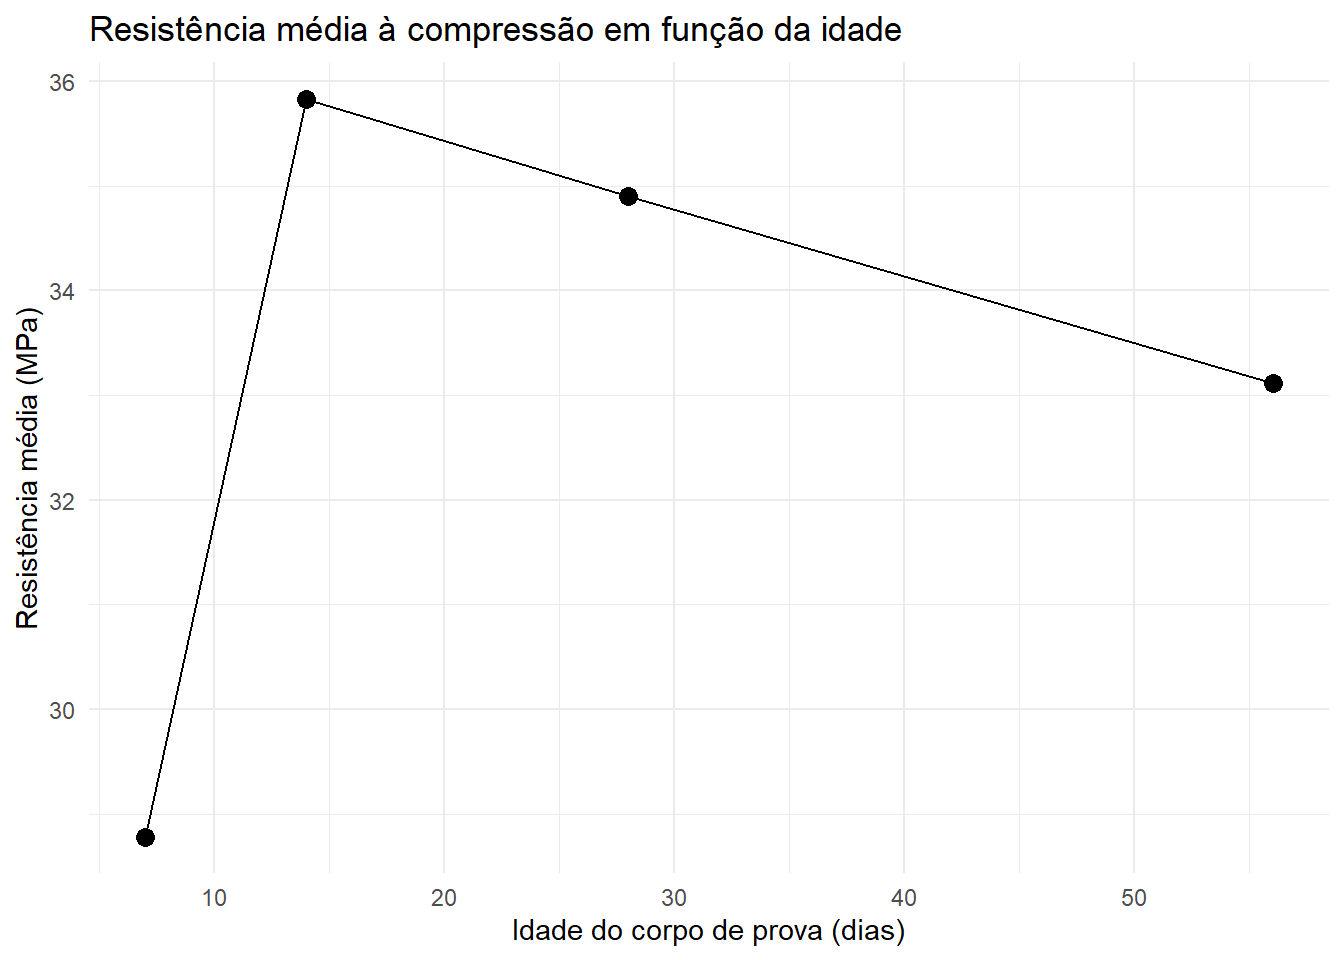
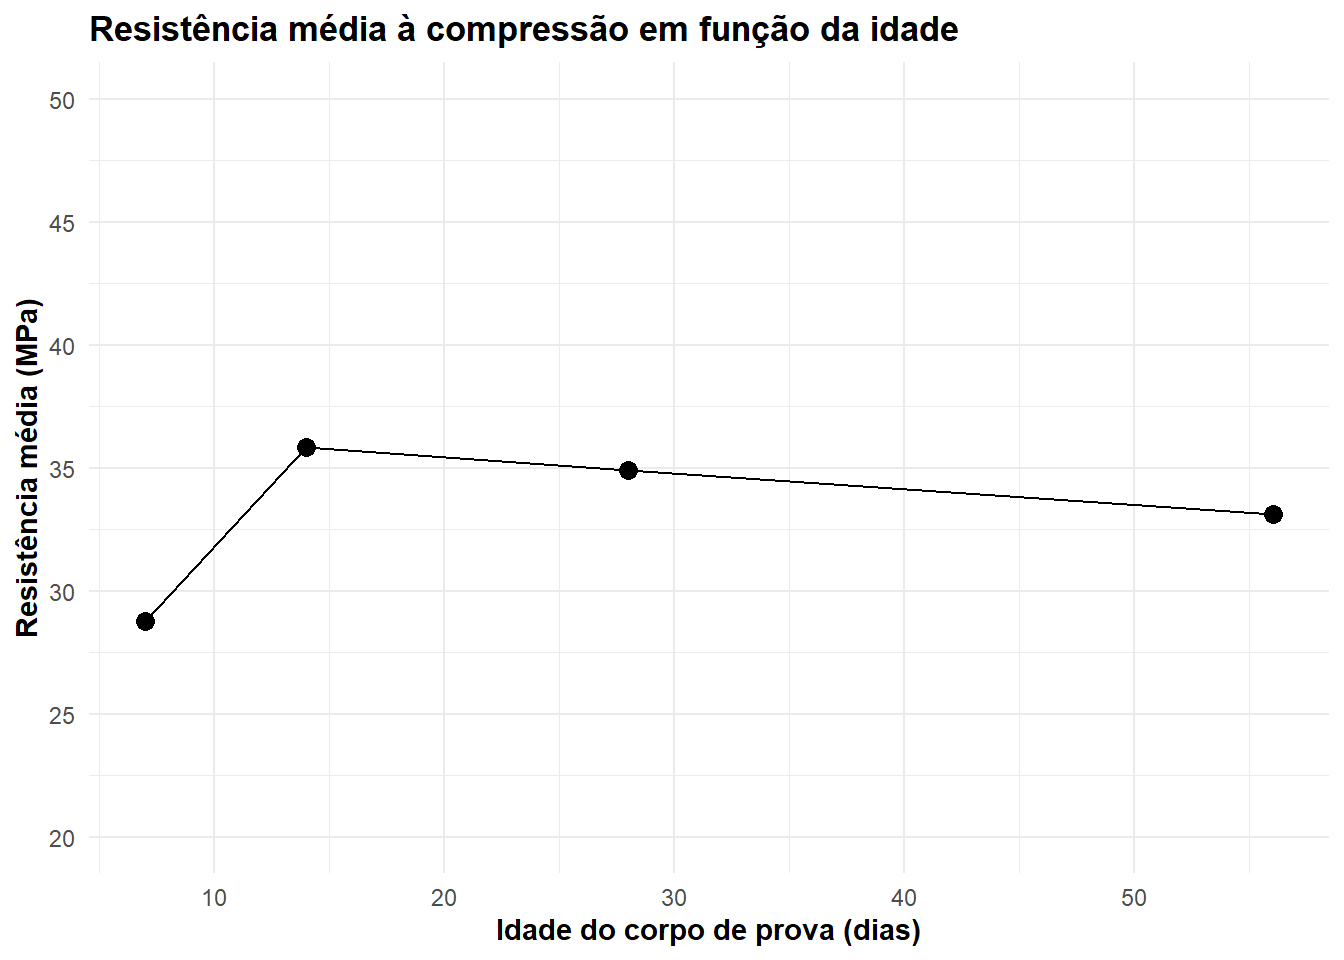
Initial commit

diff --git a/relatorio/rel03/index.html b/relatorio/rel03/index.html
@@ -166,8 +166,8 @@ div.csl-indent {
   <li><a href="#questão-33" id="toc-questão-33" class="nav-link" data-scroll-target="#questão-33"><span class="header-section-number">5.33</span> Questão 33</a></li>
   <li><a href="#questão-34" id="toc-questão-34" class="nav-link" data-scroll-target="#questão-34"><span class="header-section-number">5.34</span> Questão 34</a></li>
   <li><a href="#questão-35" id="toc-questão-35" class="nav-link" data-scroll-target="#questão-35"><span class="header-section-number">5.35</span> Questão 35</a></li>
-  <li><a href="#questão-36-comparação-entre-obras" id="toc-questão-36-comparação-entre-obras" class="nav-link" data-scroll-target="#questão-36-comparação-entre-obras"><span class="header-section-number">5.36</span> Questão 36 — Comparação entre obras</a></li>
-  <li><a href="#questão-37-idade-e-resistência" id="toc-questão-37-idade-e-resistência" class="nav-link" data-scroll-target="#questão-37-idade-e-resistência"><span class="header-section-number">5.37</span> Questão 37 — Idade e resistência</a></li>
+  <li><a href="#questão-36" id="toc-questão-36" class="nav-link" data-scroll-target="#questão-36"><span class="header-section-number">5.36</span> Questão 36</a></li>
+  <li><a href="#questão-37" id="toc-questão-37" class="nav-link" data-scroll-target="#questão-37"><span class="header-section-number">5.37</span> Questão 37</a></li>
   </ul></li>
   <li><a href="#considerações-finais" id="toc-considerações-finais" class="nav-link" data-scroll-target="#considerações-finais"><span class="header-section-number">6</span> 🧠 Considerações finais</a></li>
   <li><a href="#referências" id="toc-referências" class="nav-link" data-scroll-target="#referências"><span class="header-section-number">7</span> 📖 Referências</a></li>
@@ -206,7 +206,7 @@ div.csl-indent {
     <div>
     <div class="quarto-title-meta-heading">Data de Publicação</div>
     <div class="quarto-title-meta-contents">
-      <p class="date">07/09/2026, 16:17</p>
+      <p class="date">07/09/2026, 16:29</p>
     </div>
   </div>
   
@@ -5219,8 +5219,8 @@ $ absorção_agregado_pct &lt;dbl&gt; 2.30, 1.85, 1.89, 1.97, 2.31, 0.80, 1.18, 
 <p>Observa-se uma <strong>tendência negativa</strong>, indicando que maiores valores da relação água/cimento tendem a estar associados a menores valores de resistência à compressão. Esse comportamento é coerente com o esperado para o concreto, embora a dispersão dos pontos mostre que outros fatores também influenciam a resistência.</p>
 <p>A presença de pontos que se afastam do padrão geral merece investigação, pois pode indicar <strong>valores discrepantes, variações nas características dos materiais ou diferenças nas condições de produção e ensaio</strong>.</p>
 </section>
-<section id="questão-36-comparação-entre-obras" class="level2" data-number="5.36">
-<h2 data-number="5.36" class="anchored" data-anchor-id="questão-36-comparação-entre-obras"><span class="header-section-number">5.36</span> Questão 36 — Comparação entre obras</h2>
+<section id="questão-36" class="level2" data-number="5.36">
+<h2 data-number="5.36" class="anchored" data-anchor-id="questão-36"><span class="header-section-number">5.36</span> Questão 36</h2>
 <p>Para verificar, em termos descritivos, a afirmação de que os concretos utilizados no Bloco C apresentam desempenho superior aos demais blocos, foram comparadas as medidas de resistência à compressão entre as obras.</p>
 <p>Inicialmente, foram calculadas a média, a mediana e o desvio-padrão da resistência para cada obra:</p>
 <div class="cell">
@@ -5285,9 +5285,9 @@ $ absorção_agregado_pct &lt;dbl&gt; 2.30, 1.85, 1.89, 1.97, 2.31, 0.80, 1.18, 
 <p>A comparação dos resultados mostra que o <strong>Bloco C não apresenta o maior desempenho em resistência à compressão</strong>. Sua mediana é inferior às observadas nos Blocos B e D, enquanto sua distribuição apresenta também considerável variabilidade.</p>
 <p>Portanto, <strong>os dados analisados não dão suporte, em termos descritivos, à afirmação de que os concretos do Bloco C apresentam desempenho superior aos demais blocos</strong>. Essa conclusão se restringe aos resultados observados na base e não envolve teste de hipótese.</p>
 </section>
-<section id="questão-37-idade-e-resistência" class="level2" data-number="5.37">
-<h2 data-number="5.37" class="anchored" data-anchor-id="questão-37-idade-e-resistência"><span class="header-section-number">5.37</span> Questão 37 — Idade e resistência</h2>
-<p>Para analisar a relação entre a idade dos corpos de prova e a resistência à compressão, foram calculadas as médias de resistência para cada idade. O valor de <code>280 dias</code> foi desconsiderado nesta análise por apresentar comportamento discrepante em relação às demais idades.</p>
+<section id="questão-37" class="level2" data-number="5.37">
+<h2 data-number="5.37" class="anchored" data-anchor-id="questão-37"><span class="header-section-number">5.37</span> Questão 37</h2>
+<p>Para analisar a relação entre a idade dos corpos de prova e a resistência à compressão, foram calculadas as médias de resistência para cada idade. O valor de <code>280 dias</code> foi desconsiderado por apresentar comportamento discrepante em relação às demais observações.</p>
 <div class="cell">
 <details class="code-fold">
 <summary>Código</summary>
@@ -5312,7 +5312,7 @@ $ absorção_agregado_pct &lt;dbl&gt; 2.30, 1.85, 1.89, 1.97, 2.31, 0.80, 1.18, 
 4         56              33.1</code></pre>
 </div>
 </div>
-<p>A relação entre idade e resistência média foi representada graficamente:</p>
+<p>A relação entre idade e resistência média foi representada por meio de um gráfico de linhas:</p>
 <div class="cell">
 <details class="code-fold">
 <summary>Código</summary>
@@ -5325,12 +5325,20 @@ $ absorção_agregado_pct &lt;dbl&gt; 2.30, 1.85, 1.89, 1.97, 2.31, 0.80, 1.18, 
 <span id="cb95-7"><a href="#cb95-7" aria-hidden="true" tabindex="-1"></a>) <span class="sc">+</span></span>
 <span id="cb95-8"><a href="#cb95-8" aria-hidden="true" tabindex="-1"></a>  <span class="fu">geom_line</span>() <span class="sc">+</span></span>
 <span id="cb95-9"><a href="#cb95-9" aria-hidden="true" tabindex="-1"></a>  <span class="fu">geom_point</span>(<span class="at">size =</span> <span class="dv">3</span>) <span class="sc">+</span></span>
-<span id="cb95-10"><a href="#cb95-10" aria-hidden="true" tabindex="-1"></a>  <span class="fu">labs</span>(</span>
-<span id="cb95-11"><a href="#cb95-11" aria-hidden="true" tabindex="-1"></a>    <span class="at">title =</span> <span class="st">"Resistência média à compressão em função da idade"</span>,</span>
-<span id="cb95-12"><a href="#cb95-12" aria-hidden="true" tabindex="-1"></a>    <span class="at">x =</span> <span class="st">"Idade do corpo de prova (dias)"</span>,</span>
-<span id="cb95-13"><a href="#cb95-13" aria-hidden="true" tabindex="-1"></a>    <span class="at">y =</span> <span class="st">"Resistência média (MPa)"</span></span>
-<span id="cb95-14"><a href="#cb95-14" aria-hidden="true" tabindex="-1"></a>  ) <span class="sc">+</span></span>
-<span id="cb95-15"><a href="#cb95-15" aria-hidden="true" tabindex="-1"></a>  <span class="fu">theme_minimal</span>()</span></code></pre></div><button title="Copiar para a área de transferência" class="code-copy-button"><i class="bi"></i></button></div>
+<span id="cb95-10"><a href="#cb95-10" aria-hidden="true" tabindex="-1"></a>  <span class="fu">scale_y_continuous</span>(</span>
+<span id="cb95-11"><a href="#cb95-11" aria-hidden="true" tabindex="-1"></a>    <span class="at">limits =</span> <span class="fu">c</span>(<span class="dv">20</span>, <span class="dv">50</span>),</span>
+<span id="cb95-12"><a href="#cb95-12" aria-hidden="true" tabindex="-1"></a>    <span class="at">breaks =</span> <span class="fu">seq</span>(<span class="dv">20</span>, <span class="dv">50</span>, <span class="at">by =</span> <span class="dv">5</span>)</span>
+<span id="cb95-13"><a href="#cb95-13" aria-hidden="true" tabindex="-1"></a>  ) <span class="sc">+</span></span>
+<span id="cb95-14"><a href="#cb95-14" aria-hidden="true" tabindex="-1"></a>  <span class="fu">labs</span>(</span>
+<span id="cb95-15"><a href="#cb95-15" aria-hidden="true" tabindex="-1"></a>    <span class="at">title =</span> <span class="st">"Resistência média à compressão em função da idade"</span>,</span>
+<span id="cb95-16"><a href="#cb95-16" aria-hidden="true" tabindex="-1"></a>    <span class="at">x =</span> <span class="st">"Idade do corpo de prova (dias)"</span>,</span>
+<span id="cb95-17"><a href="#cb95-17" aria-hidden="true" tabindex="-1"></a>    <span class="at">y =</span> <span class="st">"Resistência média (MPa)"</span></span>
+<span id="cb95-18"><a href="#cb95-18" aria-hidden="true" tabindex="-1"></a>  ) <span class="sc">+</span></span>
+<span id="cb95-19"><a href="#cb95-19" aria-hidden="true" tabindex="-1"></a>  <span class="fu">theme_minimal</span>() <span class="sc">+</span></span>
+<span id="cb95-20"><a href="#cb95-20" aria-hidden="true" tabindex="-1"></a>  <span class="fu">theme</span>(</span>
+<span id="cb95-21"><a href="#cb95-21" aria-hidden="true" tabindex="-1"></a>    <span class="at">plot.title =</span> <span class="fu">element_text</span>(<span class="at">face =</span> <span class="st">"bold"</span>),</span>
+<span id="cb95-22"><a href="#cb95-22" aria-hidden="true" tabindex="-1"></a>    <span class="at">axis.title =</span> <span class="fu">element_text</span>(<span class="at">face =</span> <span class="st">"bold"</span>)</span>
+<span id="cb95-23"><a href="#cb95-23" aria-hidden="true" tabindex="-1"></a>  )</span></code></pre></div><button title="Copiar para a área de transferência" class="code-copy-button"><i class="bi"></i></button></div>
 </details>
 <div class="cell-output-display">
 <div>
@@ -5340,8 +5348,9 @@ $ absorção_agregado_pct &lt;dbl&gt; 2.30, 1.85, 1.89, 1.97, 2.31, 0.80, 1.18, 
 </div>
 </div>
 </div>
-<p>Após a retirada do valor discrepante, observa-se uma <strong>tendência de aumento da resistência média com o avanço da idade</strong>. Os resultados indicam, portanto, que os corpos de prova tendem a apresentar maior resistência à compressão nas idades mais avançadas, embora esse crescimento não ocorra necessariamente de forma uniforme.</p>
-<p>Assim, os dados apresentam <strong>evidência descritiva de uma relação positiva entre idade e resistência à compressão</strong>.</p>
+<p>Observa-se que a resistência média <strong>não apresenta crescimento contínuo com o aumento da idade</strong>. Há um aumento entre 7 e 14 dias, seguido de redução nas idades posteriores.</p>
+<p>Esse comportamento pode ser explicado pelo fato de que a resistência do concreto é influenciada conjuntamente por diversos fatores, como a <strong>relação água/cimento, o consumo de cimento, as características dos materiais e as condições de produção e cura</strong>. Dessa forma, a idade, isoladamente, não explica toda a variação observada.</p>
+<p>Assim, os dados indicam um <strong>ganho inicial de resistência</strong>, mas não permitem estabelecer uma relação crescente contínua entre idade e resistência para esta base.</p>
 </section>
 </section>
 <section id="considerações-finais" class="level1" data-number="6">
@@ -7382,7 +7391,7 @@ BATISTA, B. D. DE O.; ARTHUR, D. <strong><a href="https://bendeivide.github.io/b
 <span id="cb96-1670"><a href="#cb96-1670" aria-hidden="true" tabindex="-1"></a></span>
 <span id="cb96-1671"><a href="#cb96-1671" aria-hidden="true" tabindex="-1"></a>A presença de pontos que se afastam do padrão geral merece investigação, pois pode indicar **valores discrepantes, variações nas características dos materiais ou diferenças nas condições de produção e ensaio**.</span>
 <span id="cb96-1672"><a href="#cb96-1672" aria-hidden="true" tabindex="-1"></a></span>
-<span id="cb96-1673"><a href="#cb96-1673" aria-hidden="true" tabindex="-1"></a><span class="fu">## Questão 36 — Comparação entre obras</span></span>
+<span id="cb96-1673"><a href="#cb96-1673" aria-hidden="true" tabindex="-1"></a><span class="fu">## Questão 36</span></span>
 <span id="cb96-1674"><a href="#cb96-1674" aria-hidden="true" tabindex="-1"></a></span>
 <span id="cb96-1675"><a href="#cb96-1675" aria-hidden="true" tabindex="-1"></a>Para verificar, em termos descritivos, a afirmação de que os concretos utilizados no Bloco C apresentam desempenho superior aos demais blocos, foram comparadas as medidas de resistência à compressão entre as obras.</span>
 <span id="cb96-1676"><a href="#cb96-1676" aria-hidden="true" tabindex="-1"></a></span>
@@ -7432,9 +7441,9 @@ BATISTA, B. D. DE O.; ARTHUR, D. <strong><a href="https://bendeivide.github.io/b
 <span id="cb96-1724"><a href="#cb96-1724" aria-hidden="true" tabindex="-1"></a></span>
 <span id="cb96-1725"><a href="#cb96-1725" aria-hidden="true" tabindex="-1"></a>Portanto, **os dados analisados não dão suporte, em termos descritivos, à afirmação de que os concretos do Bloco C apresentam desempenho superior aos demais blocos**. Essa conclusão se restringe aos resultados observados na base e não envolve teste de hipótese.</span>
 <span id="cb96-1726"><a href="#cb96-1726" aria-hidden="true" tabindex="-1"></a></span>
-<span id="cb96-1727"><a href="#cb96-1727" aria-hidden="true" tabindex="-1"></a><span class="fu">## Questão 37 — Idade e resistência</span></span>
+<span id="cb96-1727"><a href="#cb96-1727" aria-hidden="true" tabindex="-1"></a><span class="fu">## Questão 37</span></span>
 <span id="cb96-1728"><a href="#cb96-1728" aria-hidden="true" tabindex="-1"></a></span>
-<span id="cb96-1729"><a href="#cb96-1729" aria-hidden="true" tabindex="-1"></a>Para analisar a relação entre a idade dos corpos de prova e a resistência à compressão, foram calculadas as médias de resistência para cada idade. O valor de <span class="in">`280 dias`</span> foi desconsiderado nesta análise por apresentar comportamento discrepante em relação às demais idades.</span>
+<span id="cb96-1729"><a href="#cb96-1729" aria-hidden="true" tabindex="-1"></a>Para analisar a relação entre a idade dos corpos de prova e a resistência à compressão, foram calculadas as médias de resistência para cada idade. O valor de <span class="in">`280 dias`</span> foi desconsiderado por apresentar comportamento discrepante em relação às demais observações.</span>
 <span id="cb96-1730"><a href="#cb96-1730" aria-hidden="true" tabindex="-1"></a></span>
 <span id="cb96-1733"><a href="#cb96-1733" aria-hidden="true" tabindex="-1"></a><span class="in">```{r}</span></span>
 <span id="cb96-1734"><a href="#cb96-1734" aria-hidden="true" tabindex="-1"></a>resistencia_idade <span class="ot">&lt;-</span> dados_limpos <span class="sc">%&gt;%</span></span>
@@ -7449,7 +7458,7 @@ BATISTA, B. D. DE O.; ARTHUR, D. <strong><a href="https://bendeivide.github.io/b
 <span id="cb96-1743"><a href="#cb96-1743" aria-hidden="true" tabindex="-1"></a>resistencia_idade</span>
 <span id="cb96-1744"><a href="#cb96-1744" aria-hidden="true" tabindex="-1"></a><span class="in">```</span></span>
 <span id="cb96-1745"><a href="#cb96-1745" aria-hidden="true" tabindex="-1"></a></span>
-<span id="cb96-1746"><a href="#cb96-1746" aria-hidden="true" tabindex="-1"></a>A relação entre idade e resistência média foi representada graficamente:</span>
+<span id="cb96-1746"><a href="#cb96-1746" aria-hidden="true" tabindex="-1"></a>A relação entre idade e resistência média foi representada por meio de um gráfico de linhas:</span>
 <span id="cb96-1747"><a href="#cb96-1747" aria-hidden="true" tabindex="-1"></a></span>
 <span id="cb96-1750"><a href="#cb96-1750" aria-hidden="true" tabindex="-1"></a><span class="in">```{r}</span></span>
 <span id="cb96-1751"><a href="#cb96-1751" aria-hidden="true" tabindex="-1"></a><span class="fu">ggplot</span>(</span>
@@ -7461,38 +7470,49 @@ BATISTA, B. D. DE O.; ARTHUR, D. <strong><a href="https://bendeivide.github.io/b
 <span id="cb96-1757"><a href="#cb96-1757" aria-hidden="true" tabindex="-1"></a>) <span class="sc">+</span></span>
 <span id="cb96-1758"><a href="#cb96-1758" aria-hidden="true" tabindex="-1"></a>  <span class="fu">geom_line</span>() <span class="sc">+</span></span>
 <span id="cb96-1759"><a href="#cb96-1759" aria-hidden="true" tabindex="-1"></a>  <span class="fu">geom_point</span>(<span class="at">size =</span> <span class="dv">3</span>) <span class="sc">+</span></span>
-<span id="cb96-1760"><a href="#cb96-1760" aria-hidden="true" tabindex="-1"></a>  <span class="fu">labs</span>(</span>
-<span id="cb96-1761"><a href="#cb96-1761" aria-hidden="true" tabindex="-1"></a>    <span class="at">title =</span> <span class="st">"Resistência média à compressão em função da idade"</span>,</span>
-<span id="cb96-1762"><a href="#cb96-1762" aria-hidden="true" tabindex="-1"></a>    <span class="at">x =</span> <span class="st">"Idade do corpo de prova (dias)"</span>,</span>
-<span id="cb96-1763"><a href="#cb96-1763" aria-hidden="true" tabindex="-1"></a>    <span class="at">y =</span> <span class="st">"Resistência média (MPa)"</span></span>
-<span id="cb96-1764"><a href="#cb96-1764" aria-hidden="true" tabindex="-1"></a>  ) <span class="sc">+</span></span>
-<span id="cb96-1765"><a href="#cb96-1765" aria-hidden="true" tabindex="-1"></a>  <span class="fu">theme_minimal</span>()</span>
-<span id="cb96-1766"><a href="#cb96-1766" aria-hidden="true" tabindex="-1"></a><span class="in">```</span></span>
-<span id="cb96-1767"><a href="#cb96-1767" aria-hidden="true" tabindex="-1"></a></span>
-<span id="cb96-1768"><a href="#cb96-1768" aria-hidden="true" tabindex="-1"></a>Após a retirada do valor discrepante, observa-se uma **tendência de aumento da resistência média com o avanço da idade**. Os resultados indicam, portanto, que os corpos de prova tendem a apresentar maior resistência à compressão nas idades mais avançadas, embora esse crescimento não ocorra necessariamente de forma uniforme.</span>
-<span id="cb96-1769"><a href="#cb96-1769" aria-hidden="true" tabindex="-1"></a></span>
-<span id="cb96-1770"><a href="#cb96-1770" aria-hidden="true" tabindex="-1"></a>Assim, os dados apresentam **evidência descritiva de uma relação positiva entre idade e resistência à compressão**.</span>
-<span id="cb96-1771"><a href="#cb96-1771" aria-hidden="true" tabindex="-1"></a></span>
-<span id="cb96-1772"><a href="#cb96-1772" aria-hidden="true" tabindex="-1"></a></span>
-<span id="cb96-1773"><a href="#cb96-1773" aria-hidden="true" tabindex="-1"></a></span>
-<span id="cb96-1774"><a href="#cb96-1774" aria-hidden="true" tabindex="-1"></a></span>
+<span id="cb96-1760"><a href="#cb96-1760" aria-hidden="true" tabindex="-1"></a>  <span class="fu">scale_y_continuous</span>(</span>
+<span id="cb96-1761"><a href="#cb96-1761" aria-hidden="true" tabindex="-1"></a>    <span class="at">limits =</span> <span class="fu">c</span>(<span class="dv">20</span>, <span class="dv">50</span>),</span>
+<span id="cb96-1762"><a href="#cb96-1762" aria-hidden="true" tabindex="-1"></a>    <span class="at">breaks =</span> <span class="fu">seq</span>(<span class="dv">20</span>, <span class="dv">50</span>, <span class="at">by =</span> <span class="dv">5</span>)</span>
+<span id="cb96-1763"><a href="#cb96-1763" aria-hidden="true" tabindex="-1"></a>  ) <span class="sc">+</span></span>
+<span id="cb96-1764"><a href="#cb96-1764" aria-hidden="true" tabindex="-1"></a>  <span class="fu">labs</span>(</span>
+<span id="cb96-1765"><a href="#cb96-1765" aria-hidden="true" tabindex="-1"></a>    <span class="at">title =</span> <span class="st">"Resistência média à compressão em função da idade"</span>,</span>
+<span id="cb96-1766"><a href="#cb96-1766" aria-hidden="true" tabindex="-1"></a>    <span class="at">x =</span> <span class="st">"Idade do corpo de prova (dias)"</span>,</span>
+<span id="cb96-1767"><a href="#cb96-1767" aria-hidden="true" tabindex="-1"></a>    <span class="at">y =</span> <span class="st">"Resistência média (MPa)"</span></span>
+<span id="cb96-1768"><a href="#cb96-1768" aria-hidden="true" tabindex="-1"></a>  ) <span class="sc">+</span></span>
+<span id="cb96-1769"><a href="#cb96-1769" aria-hidden="true" tabindex="-1"></a>  <span class="fu">theme_minimal</span>() <span class="sc">+</span></span>
+<span id="cb96-1770"><a href="#cb96-1770" aria-hidden="true" tabindex="-1"></a>  <span class="fu">theme</span>(</span>
+<span id="cb96-1771"><a href="#cb96-1771" aria-hidden="true" tabindex="-1"></a>    <span class="at">plot.title =</span> <span class="fu">element_text</span>(<span class="at">face =</span> <span class="st">"bold"</span>),</span>
+<span id="cb96-1772"><a href="#cb96-1772" aria-hidden="true" tabindex="-1"></a>    <span class="at">axis.title =</span> <span class="fu">element_text</span>(<span class="at">face =</span> <span class="st">"bold"</span>)</span>
+<span id="cb96-1773"><a href="#cb96-1773" aria-hidden="true" tabindex="-1"></a>  )</span>
+<span id="cb96-1774"><a href="#cb96-1774" aria-hidden="true" tabindex="-1"></a><span class="in">```</span></span>
 <span id="cb96-1775"><a href="#cb96-1775" aria-hidden="true" tabindex="-1"></a></span>
-<span id="cb96-1776"><a href="#cb96-1776" aria-hidden="true" tabindex="-1"></a></span>
+<span id="cb96-1776"><a href="#cb96-1776" aria-hidden="true" tabindex="-1"></a>Observa-se que a resistência média **não apresenta crescimento contínuo com o aumento da idade**. Há um aumento entre 7 e 14 dias, seguido de redução nas idades posteriores.</span>
 <span id="cb96-1777"><a href="#cb96-1777" aria-hidden="true" tabindex="-1"></a></span>
-<span id="cb96-1778"><a href="#cb96-1778" aria-hidden="true" tabindex="-1"></a></span>
+<span id="cb96-1778"><a href="#cb96-1778" aria-hidden="true" tabindex="-1"></a>Esse comportamento pode ser explicado pelo fato de que a resistência do concreto é influenciada conjuntamente por diversos fatores, como a **relação água/cimento, o consumo de cimento, as características dos materiais e as condições de produção e cura**. Dessa forma, a idade, isoladamente, não explica toda a variação observada.</span>
 <span id="cb96-1779"><a href="#cb96-1779" aria-hidden="true" tabindex="-1"></a></span>
-<span id="cb96-1780"><a href="#cb96-1780" aria-hidden="true" tabindex="-1"></a></span>
+<span id="cb96-1780"><a href="#cb96-1780" aria-hidden="true" tabindex="-1"></a>Assim, os dados indicam um **ganho inicial de resistência**, mas não permitem estabelecer uma relação crescente contínua entre idade e resistência para esta base.</span>
 <span id="cb96-1781"><a href="#cb96-1781" aria-hidden="true" tabindex="-1"></a></span>
 <span id="cb96-1782"><a href="#cb96-1782" aria-hidden="true" tabindex="-1"></a></span>
-<span id="cb96-1783"><a href="#cb96-1783" aria-hidden="true" tabindex="-1"></a><span class="fu"># 🧠 Considerações finais</span></span>
+<span id="cb96-1783"><a href="#cb96-1783" aria-hidden="true" tabindex="-1"></a></span>
 <span id="cb96-1784"><a href="#cb96-1784" aria-hidden="true" tabindex="-1"></a></span>
 <span id="cb96-1785"><a href="#cb96-1785" aria-hidden="true" tabindex="-1"></a></span>
 <span id="cb96-1786"><a href="#cb96-1786" aria-hidden="true" tabindex="-1"></a></span>
 <span id="cb96-1787"><a href="#cb96-1787" aria-hidden="true" tabindex="-1"></a></span>
 <span id="cb96-1788"><a href="#cb96-1788" aria-hidden="true" tabindex="-1"></a></span>
-<span id="cb96-1789"><a href="#cb96-1789" aria-hidden="true" tabindex="-1"></a><span class="fu"># 📖 Referências</span></span>
+<span id="cb96-1789"><a href="#cb96-1789" aria-hidden="true" tabindex="-1"></a></span>
 <span id="cb96-1790"><a href="#cb96-1790" aria-hidden="true" tabindex="-1"></a></span>
-<span id="cb96-1791"><a href="#cb96-1791" aria-hidden="true" tabindex="-1"></a>::: {#refs}</span>
+<span id="cb96-1791"><a href="#cb96-1791" aria-hidden="true" tabindex="-1"></a></span>
+<span id="cb96-1792"><a href="#cb96-1792" aria-hidden="true" tabindex="-1"></a></span>
+<span id="cb96-1793"><a href="#cb96-1793" aria-hidden="true" tabindex="-1"></a></span>
+<span id="cb96-1794"><a href="#cb96-1794" aria-hidden="true" tabindex="-1"></a><span class="fu"># 🧠 Considerações finais</span></span>
+<span id="cb96-1795"><a href="#cb96-1795" aria-hidden="true" tabindex="-1"></a></span>
+<span id="cb96-1796"><a href="#cb96-1796" aria-hidden="true" tabindex="-1"></a></span>
+<span id="cb96-1797"><a href="#cb96-1797" aria-hidden="true" tabindex="-1"></a></span>
+<span id="cb96-1798"><a href="#cb96-1798" aria-hidden="true" tabindex="-1"></a></span>
+<span id="cb96-1799"><a href="#cb96-1799" aria-hidden="true" tabindex="-1"></a></span>
+<span id="cb96-1800"><a href="#cb96-1800" aria-hidden="true" tabindex="-1"></a><span class="fu"># 📖 Referências</span></span>
+<span id="cb96-1801"><a href="#cb96-1801" aria-hidden="true" tabindex="-1"></a></span>
+<span id="cb96-1802"><a href="#cb96-1802" aria-hidden="true" tabindex="-1"></a>::: {#refs}</span>
 </code></pre></div><button title="Copiar para a área de transferência" class="code-copy-button" data-in-quarto-modal=""><i class="bi"></i></button></div>
 </div></div></div></div></div>
 </div> <!-- /content -->
